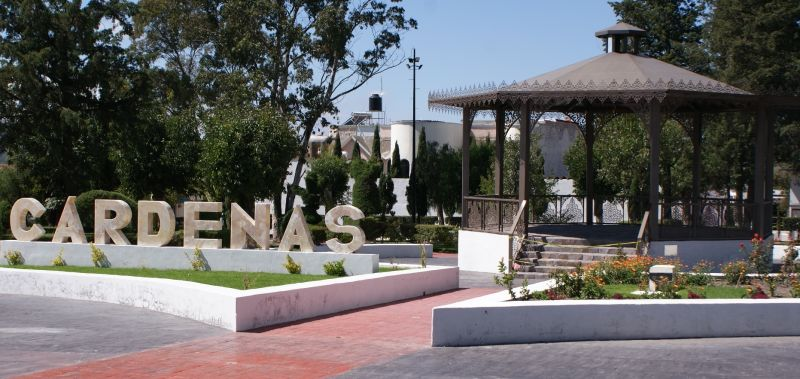
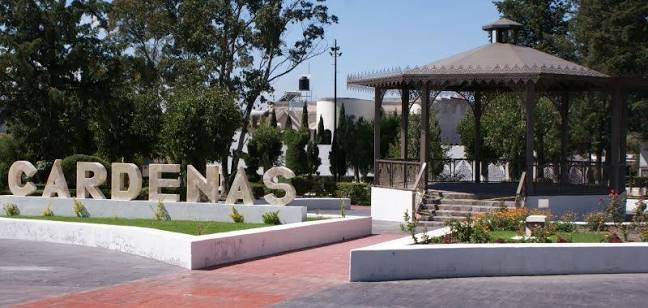
Corrección de carrusel de imágenes

diff --git a/components/marketing/MunicipiosUnicos.tsx b/components/marketing/MunicipiosUnicos.tsx
@@ -79,14 +79,18 @@ const los60Municipios: MunicipioDetalle[] = [
 const imagenPorDefecto = '/hero.jpg';
 
 const imagenesMunicipio: Record<string, string> = {
+  'Amaxac de Guerrero': '/Amaxacjpg.jpg',
   'Acuamanala de Miguel Hidalgo': '/Acuamanala de Miguel Hidalgo.jpg',
   'Altzayanca': '/Altzayancajpg.jpg',
   'Apetatitlán de Antonio Carvajal': '/Apetatitlán de Antonio Carvajal.jpg',
   'Apizaco': '/Apizacojpg.jpg',
+  'Atlangatepec': '/Atlangatepec.jpg',
   'Benito Juárez': '/Benito Juárez.jpg',
   'Calpulalpan': '/Calpulalpan.jpg',
+  'Chiautempan': '/Chiautempan.jpg',
   'Contla de Juan Cuamatzi': '/Contla de Juan Cuamatzi.jpg',
   'Cuapiaxtla': '/Cuapiaxtla.jpg',
+  'Cuaxomulco': '/Cuaxomulco1.jpg',
   'El Carmen Tequexquitla': '/El Carmen Tequexquitla.jpg',
   'Emiliano Zapata': '/Emiliano Zapata.jpg',
   'Españita': '/Españita.jpg',
@@ -94,6 +98,8 @@ const imagenesMunicipio: Record<string, string> = {
   'Hueyotlipan': '/Hueyotlipan.jpg',
   'Ixtenco': '/ixtenco.jpg',
   'Ixtacuixtla de Mariano Matamoros': '/xtacuixtla de Mariano Matamoros.jpeg',
+  'La Magdalena Tlaltelulco': '/La Magdalena Tlaltelulco.jpg',
+  'Lázaro Cárdenas': '/Lázaro Cárdenas.jpg',
   'Mazatecochco de José María Morelos': '/Mazatecochco de José María Morelos.jpg',
   'Muñoz de Domingo Arenas': '/Muñoz de Domingo Arenas.jpg',
   'Nanacamilpa de Mariano Arista': '/luciernagas.jpg',
@@ -102,26 +108,37 @@ const imagenesMunicipio: Record<string, string> = {
   'Papalotla de Xicohténcatl': '/Papalotla de Xicohténcatl.jpg',
   'San Damián Texoloc': '/San Damián Texóloc.jpg',
   'San Francisco Tetlanohcan': '/San Francisco Tetlanohcan.jpg',
+  'San Jerónimo Zacualpan': '/San Jerónimo Zacualpan.jpg',
   'San José Teacalco': '/San José Teacalco.jpg',
   'San Juan Huactzinco': '/San Juan Huactzinco.jpg',
   'San Lorenzo Axocomanitla': '/San Lorenzo Axocomanitla.jpeg',
   'San Lucas Tecopilco': '/San Lucas Tecopilco.jpg',
   'San Pablo del Monte': '/San Pablo del Monte.png',
+  'Sanctórum de Lázaro Cárdenas': '/Sanctórum de Lázaro Cárdenas.jpg',
   'Santa Ana Nopalucan': '/Santa Ana Nopalucan.jpg',
   'Santa Apolonia Teacalco': '/Santa Apolonia Teacalco.jpg',
+  'Santa Catarina Ayometla': '/Santa Catarina Ayometla.jpg',
   'Santa Cruz Quilehtla': '/Santa Cruz Quilehtlajpg.jpg',
   'Santa Cruz Tlaxcala': '/Santa Cruz Tlaxcala.jpg',
+  'Santa Isabel Xiloxoxtla': '/Santa Isabel Xiloxoxtla.jpg',
+  'Tenancingo': '/Tenancingo.jpg',
   'Teolocholco': '/Teolocholco.jpg',
   'Tepeyanco': '/Tepeyancojpg.jpg',
+  'Tepetitla de Lardizábal': '/Tepetitla de Lardizábal.jpg',
+  'Terrenate': '/Terrenate.jpg',
+  'Tetla de la Solidaridad': '/Tetla de la Solidaridad.jpg',
   'Tetlatlahuca': '/Tetlatlahucajpeg.jpeg',
   'Tlaxcala': '/Tlaxcala.jpg',
   'Tlaxco': '/tlaxco.jpg',
   'Tocatlán': '/Tocatlán.jpg',
   'Totolac': '/Totolac.jpg',
   'Tzompantepec': '/Tzompantepec.jpg',
+  'Xaloztoc': '/Xaloztoc.jpg',
+  'Xaltocan': '/Xaltocan.jpg',
   'Xicohtzinco': '/Xicohtzincojpg.jpg',
   'Yauhquemehcan': '/Yauhquemehcanjpg.jpg',
   'Zacatelco': '/Zacatelco.jpg',
+  'Zitlaltepec de Trinidad Sánchez Santos': '/malinche.jpg',
 };
 
 type Estacion = 'todas' | 'primavera' | 'verano' | 'otono' | 'invierno';
@@ -155,15 +172,13 @@ const slugify = (text: string) => {
 };
 
 const obtenerImagenMunicipio = (municipio: string, imagen?: string) => {
-  // Prioridad: imagen explícita > mapping conocido > slug en carpeta /municipios/ > imagen por defecto
-  if (imagen) return encodeURI(imagen);
+  // Prioridad: imagen explícita > mapping conocido > fallback local seguro
+  if (imagen && imagen.trim() !== '') return encodeURI(imagen);
 
   const mapped = imagenesMunicipio[municipio];
   if (mapped) return encodeURI(mapped);
 
-  const slug = slugify(municipio);
-  const candidate = `/municipios/${slug}.jpg`;
-  return encodeURI(candidate || imagenPorDefecto);
+  return encodeURI(imagenPorDefecto);
 };
 
 export default function MunicipiosUnicos() {

diff --git a/public/sw.js b/public/sw.js
@@ -1,0 +1,7 @@
+self.addEventListener('install', (event) => {
+  self.skipWaiting();
+});
+
+self.addEventListener('activate', (event) => {
+  event.waitUntil(self.clients.claim());
+});
